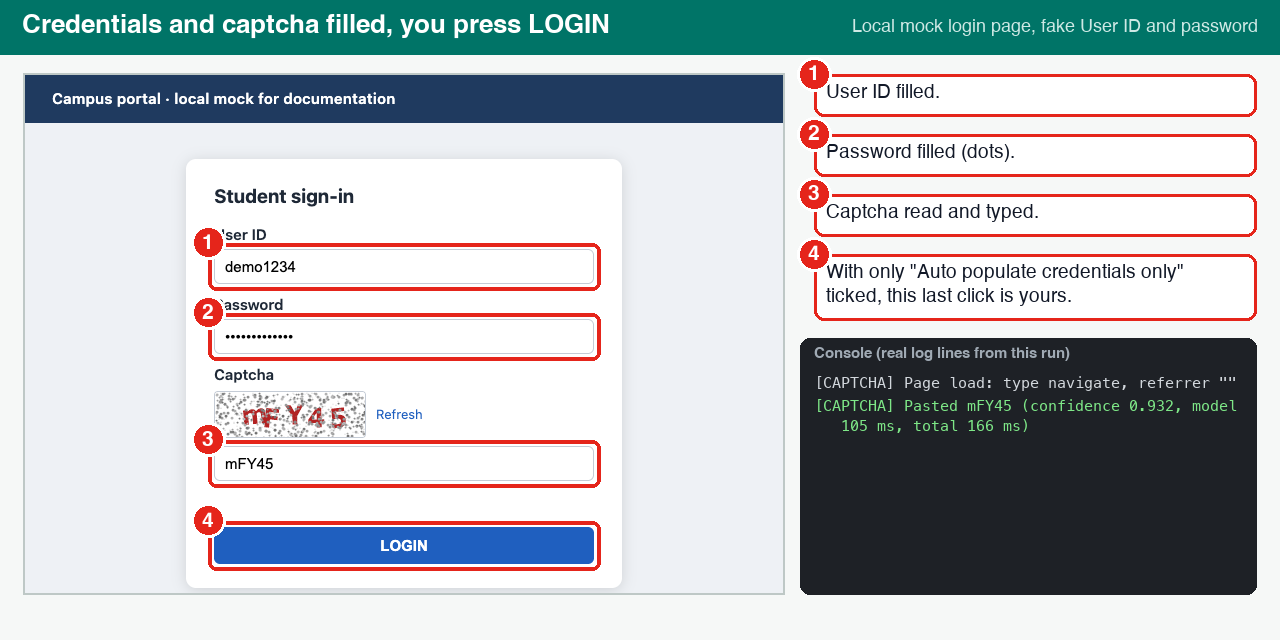
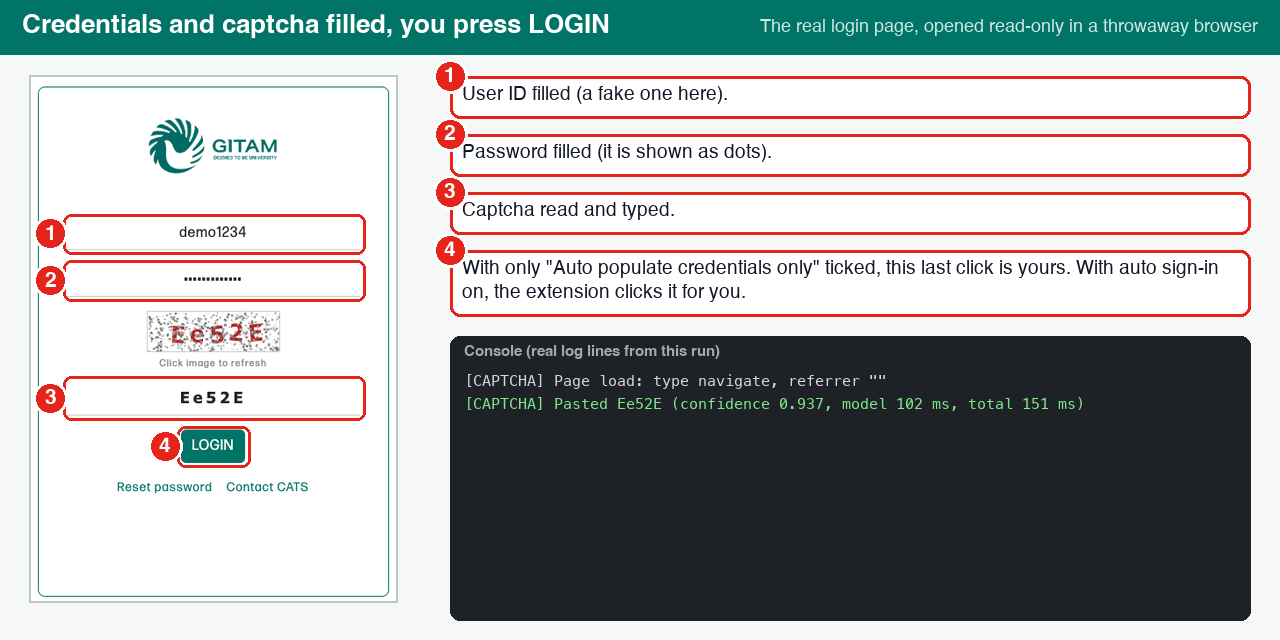
README pictures: use the real login page
First run, refresh, the filled form and the demo GIF now show the real
login page, opened read-only in a throwaway browser profile (GET requests to
the page's own hosts only, nothing is ever submitted, fake credentials in
the extension settings only). Pictures of signing in, the sign-in rules and
rejected captchas are console-only, from a test run on a local stand-in
page, because they need a real account or a real rejection. README and
DEVELOPMENT.md say which is which.

Claude-Session: https://claude.ai/code/session_01ABm8MMDKpcmDdD3q7sBpyK

diff --git a/tools/readme_visuals/real_scenes.py b/tools/readme_visuals/real_scenes.py
@@ -1,0 +1,142 @@
+"""README scenes on the REAL login page (read-only: the page is opened and the extension fills it, nothing is ever
+submitted). The browser is a throwaway Chromium profile, not your own browser; fake credentials are typed into the
+extension's settings only for the "fill" picture, with auto sign-in off.
+
+Only login.gitam.edu, cdn.gitam.edu and cdn.jsdelivr.net (the page's own assets) are reachable; everything else is
+aborted. Run through make_visuals.py (scene names: real_first, real_refresh, real_fill).
+"""
+import io, json, os, tempfile
+from contextlib import contextmanager
+
+from PIL import Image
+from playwright.sync_api import sync_playwright
+
+import anno
+from anno import canvas, paste_shot, red_box, badge, note, console_panel
+from mock_site import ROOT
+
+EXT = os.path.join(ROOT, "extension")
+URL = "https://login.gitam.edu/Login.aspx"
+ALLOWED = ("login.gitam.edu", "cdn.gitam.edu", "cdn.jsdelivr.net")
+CARD = (858, 58, 1276, 656)     # the login card inside a 1280x720 viewport
+K = 0.88                        # scale of the card crop in the frame
+XY = (30, 76)
+
+
+def _route(route):
+    host = route.request.url.split("/")[2]
+    if route.request.method != "GET" or host not in ALLOWED:
+        return route.abort()
+    return route.continue_()
+
+
+@contextmanager
+def real(with_extension=True):
+    prof = tempfile.mkdtemp(prefix="cp_real_")
+    args = ["--headless=new"]
+    if with_extension:
+        args += [f"--disable-extensions-except={EXT}", f"--load-extension={EXT}"]
+    with sync_playwright() as p:
+        ctx = p.chromium.launch_persistent_context(prof, channel="chromium", headless=True, args=args,
+                                                   viewport={"width": 1280, "height": 720})
+        ctx.route("**/*", _route)   # GET only, allow-listed hosts only: a login can never be sent from here
+        ext_id = None
+        if with_extension:
+            if not ctx.service_workers:
+                ctx.wait_for_event("serviceworker", timeout=15000)
+            ext_id = ctx.service_workers[0].url.split("/")[2]
+        try:
+            yield ctx, ext_id
+        finally:
+            ctx.close()
+
+
+def open_page(ctx):
+    pg = ctx.new_page()
+    log = []
+    pg.on("console", lambda m: log.append(m.text) if m.text.startswith("[CAPTCHA]") else None)
+    pg.goto(URL, wait_until="load")
+    return pg, log
+
+
+def card(pg):
+    im = Image.open(io.BytesIO(pg.screenshot())).convert("RGB").crop(CARD)
+    return im.resize((int(im.width * K), int(im.height * K)), Image.LANCZOS)
+
+
+def rect(pg, sel):
+    b = pg.locator(sel).bounding_box()
+    return (XY[0] + (b["x"] - CARD[0]) * K, XY[1] + (b["y"] - CARD[1]) * K,
+            XY[0] + (b["x"] + b["width"] - CARD[0]) * K, XY[1] + (b["y"] + b["height"] - CARD[1]) * K)
+
+
+def frame(title, pg, boxes=(), notes=(), console=None, sub="The real login page, opened read-only in a throwaway browser"):
+    im = canvas(title, sub)
+    paste_shot(im, card(pg), XY)
+    for sel, n in boxes:
+        r = rect(pg, sel)
+        red_box(im, r, width=3, pad=4)
+        badge(im, (r[0] - 16, (r[1] + r[3]) / 2), n)
+    x0, y = 450, 76
+    for n, text in notes:
+        y += note(im, (x0, y), text, w=800, n=n) + 16
+    if console is not None:
+        console_panel(im, (x0, y + 4), (800, 640 - y - 24), console)
+    return im
+
+
+def wait_filled(pg):
+    pg.wait_for_function("document.getElementById('txtCaptchaInput').value.length === 5", timeout=15000)
+    pg.wait_for_timeout(300)
+
+
+def first_run():
+    with real(with_extension=False) as (ctx, _):
+        pg, _ = open_page(ctx)
+        pg.wait_for_timeout(500)
+        before = frame("1. Without the extension: the captcha box is empty", pg, boxes=[("#txtCaptchaInput", 1)],
+                       notes=[(1, "This is the real login page with no extension installed. You would type the five characters yourself.")],
+                       console=[])
+    with real() as (ctx, _):
+        pg, log = open_page(ctx)
+        wait_filled(pg)
+        after = frame("2. With the extension: the box fills itself", pg,
+                      boxes=[("#imgCaptcha", 1), ("#txtCaptchaInput", 2)],
+                      notes=[(1, "The captcha image the site shows."),
+                             (2, "Read by the model inside the extension and typed in. Nothing leaves your computer.")],
+                      console=[l for l in log if "Pasted" in l])
+    return before, after
+
+
+def refresh(n=4):
+    frames = []
+    with real() as (ctx, _):
+        pg, log = open_page(ctx)
+        for k in range(n):
+            wait_filled(pg)
+            frames.append(frame(f"Every refresh is read too ({k + 1} of {n})", pg,
+                                boxes=[("#imgCaptcha", 1), ("#txtCaptchaInput", 2)],
+                                notes=[(1, "Click the captcha image to get a new one."), (2, "Filled again within a fraction of a second.")],
+                                console=[l for l in log if "Pasted" in l][-6:]))
+            if k < n - 1:
+                pg.fill("#txtCaptchaInput", "")
+                pg.click("#imgCaptcha")
+                pg.wait_for_timeout(400)
+    return frames
+
+
+def fill_only():
+    """Fake credentials saved in the throwaway profile, auto sign-in OFF: the form is filled, nothing is sent."""
+    with real() as (ctx, ext):
+        s = ctx.new_page()
+        s.goto(f"chrome-extension://{ext}/options.html")
+        s.evaluate("v => chrome.storage.local.set(v)", {"username": "demo1234", "password": "demo-password", "autofill": True,
+                   "autoLogin": False, "signInAfterLogout": False, "minConfidence": 0.5})
+        s.close()
+        pg, log = open_page(ctx)
+        wait_filled(pg)
+        return frame("Credentials and captcha filled, you press LOGIN", pg,
+                     boxes=[("#txtusername", 1), ("#password", 2), ("#txtCaptchaInput", 3), ("#Submit", 4)],
+                     notes=[(1, "User ID filled (a fake one here)."), (2, "Password filled (it is shown as dots)."), (3, "Captcha read and typed."),
+                            (4, "With only \"Auto populate credentials only\" ticked, this last click is yours. With auto sign-in on, the extension clicks it for you.")],
+                     console=list(log))

diff --git a/tools/readme_visuals/make_visuals.py b/tools/readme_visuals/make_visuals.py
@@ -47,13 +47,26 @@ def run(which):
             d = ImageDraw.Draw(im)
             d.rectangle([0, 0, anno.W, 54], fill=anno.TEAL)
             d.text((22, 12), title, font=anno.font(26, True), fill="white")
-            d.text((anno.W - 22, 18), "Real extension, local mock login page, fake credentials", font=anno.font(18), fill=(207, 233, 229), anchor="ra")
+            d.text((anno.W - 22, 18), "Real extension, real login page (read-only), fake credentials", font=anno.font(18), fill=(207, 233, 229), anchor="ra")
             return im
-        story = [("first-run-1.png", "Open the login page", 1500), ("first-run-2.png", "The captcha is read and typed for you", 2400),
-                 ("refresh-2.png", "Refresh the captcha: it is read again", 1500), ("refresh-3.png", "Refresh the captcha: it is read again", 1500),
-                 ("popup-5.png", "Optional: save your login once", 2600), ("signin-1.png", "Open the page: auto sign-in starts", 1500),
-                 ("signin-2.png", "You are in, no clicks needed", 3200)]
+        story = [("first-run-1.png", "Open the login page", 1600), ("first-run-2.png", "The captcha is read and typed for you", 2600),
+                 ("refresh-2.png", "Click the captcha: the new one is read too", 1700), ("refresh-3.png", "Click the captcha: the new one is read too", 1700),
+                 ("popup-5.png", "Optional: save your login once", 2600), ("fill-only.png", "Next time the whole form is filled for you", 3200)]
         gif([load(n, t) for n, t, _ in story], "demo.gif", [d for _, _, d in story])
+    if "real_first" in which:
+        import real_scenes
+        b, a = real_scenes.first_run()
+        png(b, "first-run-1.png"); png(a, "first-run-2.png")
+        gif([b, a, a], "first-run.gif", [1800, 2600, 1200])
+    if "real_refresh" in which:
+        import real_scenes
+        fr = real_scenes.refresh()
+        for k, f in enumerate(fr, 1):
+            png(f, f"refresh-{k}.png")
+        gif(fr, "refresh.gif", [1500] * len(fr))
+    if "real_fill" in which:
+        import real_scenes
+        png(real_scenes.fill_only(), "fill-only.png")
     if "install" in which:
         fr = scenes.install_steps()
         for k, f in enumerate(fr, 1):
@@ -61,16 +74,11 @@ def run(which):
         gif(fr, "install.gif", [2500] * len(fr))
     if "fill" in which:
         png(scenes.fill_only(), "fill-only.png")
-    if "signin" in which:
-        fr, _ = scenes.auto_signin()
-        for k, f in enumerate(fr, 1):
-            png(f, f"signin-{k}.png")
-        gif(fr, "signin.gif", [2000, 3500])
-    if "reject" in which:
-        fr, _, saved = scenes.rejected_and_saved()
-        for k, f in enumerate(fr, 1):
-            png(f, f"reject-{k}.png")
-        gif(fr, "reject.gif", [2600, 2600, 4200])
+    if "console" in which:
+        _, slog = scenes.auto_signin()
+        png(scenes.console_signin(slog), "signin.png")
+        _, rlog, saved, served = scenes.rejected_and_saved()
+        png(scenes.console_reject(rlog, saved, served), "reject.png")
     if "rules" in which:
         im, cols = scenes.rules()
         png(im, "rules.png")
@@ -79,4 +87,4 @@ def run(which):
 
 
 if __name__ == "__main__":
-    run(sys.argv[1:] or ["first_run", "refresh", "popup"])
+    run(sys.argv[1:] or ["real_first", "real_refresh", "popup"])

diff --git a/tools/readme_visuals/scenes.py b/tools/readme_visuals/scenes.py
@@ -197,7 +197,7 @@ def rejected_and_saved():
             x += pic.width + 40
         saved = names
         frames.append(im)
-        return frames, log, saved
+        return frames, log, saved, list(mock.served[:2])
 
 
 def rules():
@@ -281,3 +281,32 @@ def install_steps():
         frames.append(frame("3. The extension is installed", pg, boxes=[("#dev-reload-button", 1)],
                             notes=[(1, "This card means it worked. After you update the files or the model, press this circular arrow to reload the extension.")], sub=sub))
     return frames
+
+
+SUB_CONSOLE = "Test run on a local stand-in page, no real account"
+
+
+def console_signin(log):
+    im = canvas("Auto sign-in, as the console shows it", SUB_CONSOLE)
+    y = 84
+    y += note(im, (40, y), "With auto sign-in on and a login saved, the extension does these steps by itself as soon as the page opens: it reads the captcha, fills the form, presses LOGIN, and the portal opens. The real login page is not used for this picture because signing in needs a real account.", w=1200, size=22, n=1) + 20
+    console_panel(im, (40, y), (1200, 640 - y - 30), [l for l in log if "elements not found" not in l])
+    return im
+
+
+def console_reject(log, saved, served):
+    import os, prep
+    im = canvas("A rejected read: one retry, then it stops", SUB_CONSOLE)
+    y = 84
+    y += note(im, (40, y), "The stand-in page rejects every read on purpose, even correct ones, to show the retry limit and the saving of rejected captchas.", w=1200, size=21, n=1) + 14
+    lines = [l for l in log if "elements not found" not in l]
+    console_panel(im, (40, y), (1200, 30 + 24 * (len(lines) + 2)), lines, title="Console (real log lines)")
+    y += 40 + 24 * (len(lines) + 2)
+    x = 40
+    for i in served:
+        pic = prep.open_captcha(i).convert("RGB")
+        pic = pic.resize((pic.width * 2, pic.height * 2), Image.NEAREST)
+        paste_shot(im, pic, (x, y))
+        x += pic.width + 24
+    console_panel(im, (x + 10, y - 4), (1240 - x - 10, 640 - y + 4 - 14), ["Downloads/captcha_mistakes/"] + [f"  {n.split('/')[-1]}" for n in saved], title="Saved files")
+    return im

diff --git a/README.md b/README.md
@@ -21,7 +21,7 @@
 </div>
 
 > [!NOTE]
-> **The login page in every screenshot and GIF here is a local mock**, not the real site, so no real account or page appears. The browser, the extension and the model are the real ones. The mock page is plain and unbranded, and every login in the pictures uses a fake User ID and password. The one exception is the folder picker in step 2 of the install, which is a clearly labelled illustration because it is an operating system window.
+> **The login screenshots are of the real login page**, opened read-only in a throwaway browser profile (never my own browser): the page is loaded and the extension fills it, and **nothing is ever submitted**. Any User ID or password in a picture is a fake one. The two exceptions are labelled in place: pictures of *signing in* and of *rejected captchas* show console output from a test run on a local stand-in page, because those need a real account or a real rejection on the real site. The folder picker in the install step is an illustration, because it is an operating system window.
 
 ---
 
@@ -121,19 +121,11 @@ With only the first box ticked you get this, and the last click is yours:
   <img src="docs/images/fill-only.png" alt="Login form with User ID, password and captcha filled, the LOGIN button highlighted as the user's click" width="100%">
 </p>
 
-With auto sign-in on, opening the page is enough:
+With auto sign-in on, opening the page is enough: the extension reads the captcha, fills the form and presses LOGIN by itself. Signing in needs a real account, so this is shown as console output from a test run on a local stand-in page (not the real site):
 
 <p align="center">
-  <img src="docs/images/signin.gif" alt="The login page opens, then the portal home page appears without any click" width="100%">
+  <img src="docs/images/signin.png" alt="Console lines of an automatic sign-in: page load, captcha pasted, Auto-login signing in" width="100%">
 </p>
-
-<details>
-<summary><b>Auto sign-in as still pictures</b></summary>
-
-<p align="center"><img src="docs/images/signin-1.png" alt="The login page just opened, nothing filled yet" width="100%"></p>
-<p align="center"><img src="docs/images/signin-2.png" alt="The portal home page after the automatic sign-in, with the console lines" width="100%"></p>
-
-</details>
 
 > [!IMPORTANT]
 > The password is stored **unencrypted** in the extension's local storage on this machine (never synced). Do not use auto sign-in on a shared computer. Details in [Security](#security).
@@ -213,7 +205,7 @@ Pressing LOGIN is the risky part, because the extension assumes the site locks a
 | Reload, back/forward, restored tab | **Never** |
 | Site said "Invalid CAPTCHA" after a press | One automatic retry (at most 2 presses per tab) |
 
-In every case the credentials and captcha are still filled. These are real console lines from the shipped extension against the mock page:
+In every case the credentials and captcha are still filled. These are real console lines from the shipped extension, from a test run against a local stand-in page (a real sign-in needs a real account):
 
 <p align="center">
   <img src="docs/images/rules.png" alt="Four columns of console output for: typed address signs in, reload fills only, logout with the sub-box off fills only, logout with the sub-box on signs in" width="100%">
@@ -247,19 +239,10 @@ flowchart TD
 If you press LOGIN (or auto sign-in does) with the model's read unchanged and the reloaded page says "Invalid CAPTCHA", the captcha is saved to `Downloads/captcha_mistakes/<time>_model-<read>_conf-<confidence>.png` (time in UTC). A wrong password, a successful login or a code you retyped saves nothing. The right answer is unknown: the file name only says what the model read.
 
 <p align="center">
-  <img src="docs/images/reject.gif" alt="The site says Invalid CAPTCHA, the extension retries once, is rejected again and stops, and both captchas are listed as saved files" width="100%">
+  <img src="docs/images/reject.png" alt="Console lines: Invalid CAPTCHA, one automatic retry, rejected again, auto-login paused; the two saved file names and the two captchas" width="100%">
 </p>
 
-<details>
-<summary><b>The rejection as still pictures</b></summary>
-
-<p align="center"><img src="docs/images/reject-1.png" alt="Invalid CAPTCHA shown, the extension retries" width="100%"></p>
-<p align="center"><img src="docs/images/reject-2.png" alt="Rejected twice: the extension stops" width="100%"></p>
-<p align="center"><img src="docs/images/reject-3.png" alt="The two rejected captchas listed as saved files" width="100%"></p>
-
-</details>
-
-In this demonstration the mock rejects every read on purpose, even correct ones, to show the retry limit and the saving. The saved images are what the next training round uses ([TRAINING.md](docs/TRAINING.md#next-round-6)). A browser extension may only write under Downloads, so they land there first.
+In this test run the local stand-in page rejects every read on purpose, even correct ones, to show the retry limit and the saving. The saved images are what the next training round uses ([TRAINING.md](docs/TRAINING.md#next-round-6)). A browser extension may only write under Downloads, so they land there first.
 
 ---
 
@@ -364,7 +347,7 @@ What the code does, checked against `extension/`:
 - **Hard-coded page.** It looks for the element ids `imgCaptcha`, `txtCaptchaInput`, `txtusername`, `password`, `Submit`, `lblmessage`. If the site renames them the console says `Captcha elements not found`.
 - **No Google reCAPTCHA.** If the login shows reCAPTCHA instead of the image, auto sign-in does nothing.
 - **The 5-attempt lockout is an assumption** taken from how the site behaved for the author; it is not in this repository and was not verified here.
-- **What was and was not tested.** The model was tested against 200 hand-checked captchas and 8 real rejections, in Node against PyTorch. The extension flows (fill, auto sign-in, the rules, the rejected-captcha saving) were tested end to end in Chromium 145 against the **local mock page**. They were not re-run on the live site for this documentation, and Windows, Linux, Edge and Brave were not tested here.
+- **What was and was not tested.** The model was tested against 200 hand-checked captchas and 8 real rejections, in Node against PyTorch. The extension flows (fill, auto sign-in, the rules, the rejected-captcha saving) were tested end to end in Chromium 145 against a **local stand-in page** (the real login page was only opened read-only, never signed in to). Signing in, the rules and the rejected-captcha saving were therefore not run on the live site, and Windows, Linux, Edge and Brave were not tested here.
 - **Chromium only.** There is no Firefox or Safari build (a Safari port exists only for the old captchas, in `archive/`).
 
 ---

diff --git a/docs/DEVELOPMENT.md b/docs/DEVELOPMENT.md
@@ -36,7 +36,7 @@ python3 tools/check_extension.py models/<model>.pt    # a candidate
 
 It needs `node` and `data/captchas.zip` (for gold). Expected for v5: `JS == PyTorch on 208/208`, gold 200/200, site rejections 8/8. Syntax check of the extension scripts: `node --check extension/content.js` (and the other `.js` files).
 
-The auto-login rules have no unit test. They were run end to end against a local mock login page with the real extension (`tools/readme_visuals/`, see below), not against the live site.
+The auto-login rules have no unit test. They were run end to end against a local stand-in login page with the real extension (`tools/readme_visuals/`, see below), not against the live site, because signing in needs a real account.
 
 ## Ship a model to the extension
 
@@ -69,8 +69,9 @@ Any extension version, model change or not:
 
 The screenshots and GIFs in the README are real runs of the shipped extension, made by `tools/readme_visuals/`:
 
-- `mock_site.py`: a local, unbranded stand-in for the login page with the element ids `content.js` needs. Fake credentials only (`demo1234` / `demo-password`).
-- `browser.py`: Chromium with the extension in a throwaway profile. Only the mock hosts answer; every other request is aborted and no hostname resolves.
+- `real_scenes.py`: the screenshots of the **real** login page. Read-only: GET requests to `login.gitam.edu`, `cdn.gitam.edu` and `cdn.jsdelivr.net` only, everything else (and every POST) is aborted, so a login can never be sent. Fake credentials are stored in the throwaway profile for the "fill" picture, with auto sign-in off.
+- `mock_site.py`: a local, unbranded stand-in (used only for the console pictures of signing in, the rules and rejected captchas) for the login page with the element ids `content.js` needs. Fake credentials only (`demo1234` / `demo-password`).
+- `browser.py`: Chromium with the extension in a throwaway profile. In the mock scenes only the mock hosts answer, every other request is aborted and no hostname resolves.
 - `scenes.py`, `make_visuals.py`: the scenes and the GIF assembly. `model_visuals.py`: cleaning animation, per-character confidence and the accuracy chart, made from the model itself. `anno.py`: red boxes, numbered steps and panels.
 
 ```sh
@@ -79,7 +80,7 @@ python3 tools/readme_visuals/make_visuals.py     # browser scenes -> docs/images
 python3 tools/readme_visuals/model_visuals.py    # model figures  -> docs/images/
 ```
 
-Both need `data/captchas.zip` (the mock serves gold captchas). The diagrams `docs/images/banner.svg`, `network.svg` and `folder-picker.svg` are hand-written SVG. The folder picker is an illustration, not a screenshot, because it is an operating system window.
+The real-page scenes need network access to the login page; the mock scenes need `data/captchas.zip` (the mock serves gold captchas). Scene names for `make_visuals.py`: `real_first real_refresh real_fill popup install console rules hero`. The diagrams `docs/images/banner.svg`, `network.svg` and `folder-picker.svg` are hand-written SVG. The folder picker is an illustration, not a screenshot, because it is an operating system window.
 
 ## GitHub notes
 
